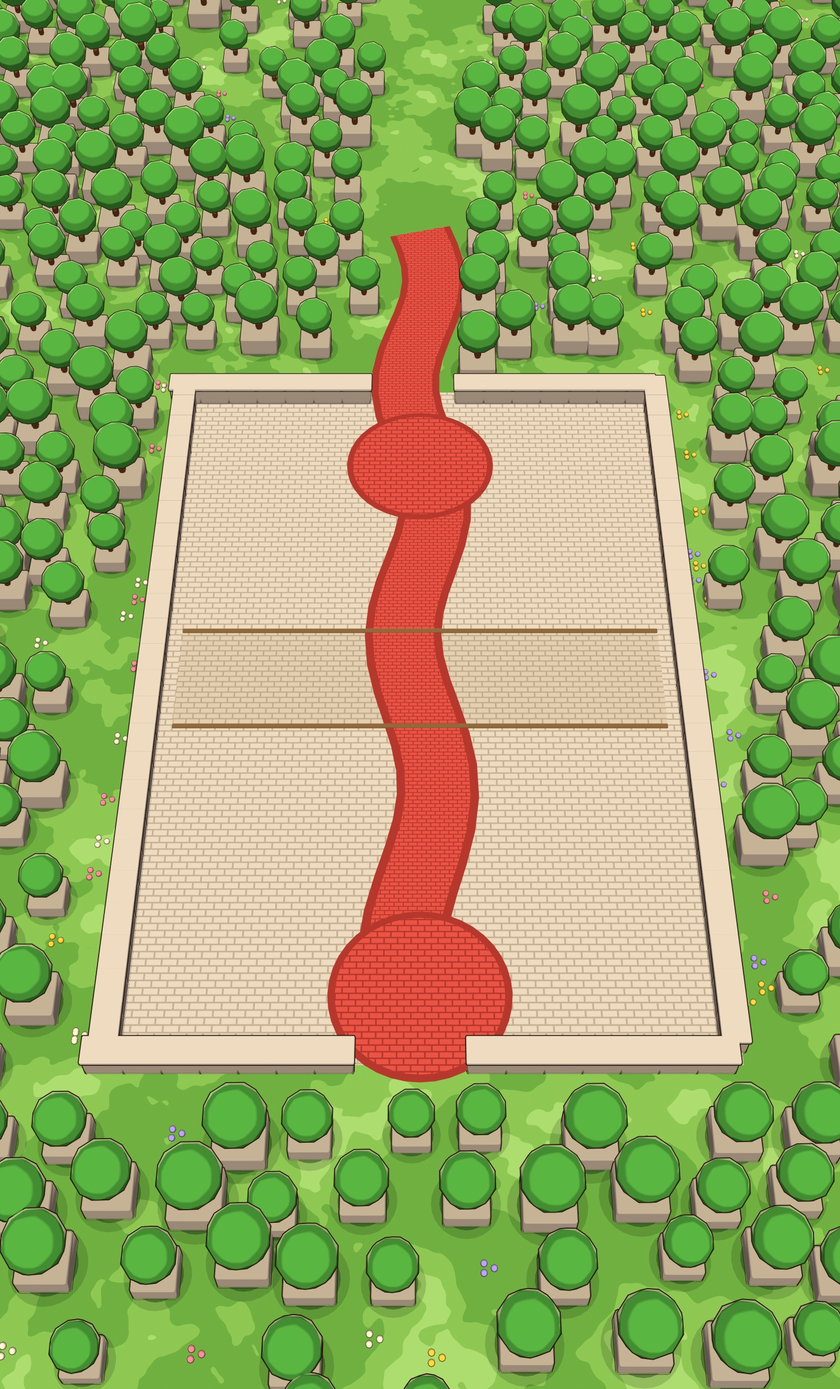
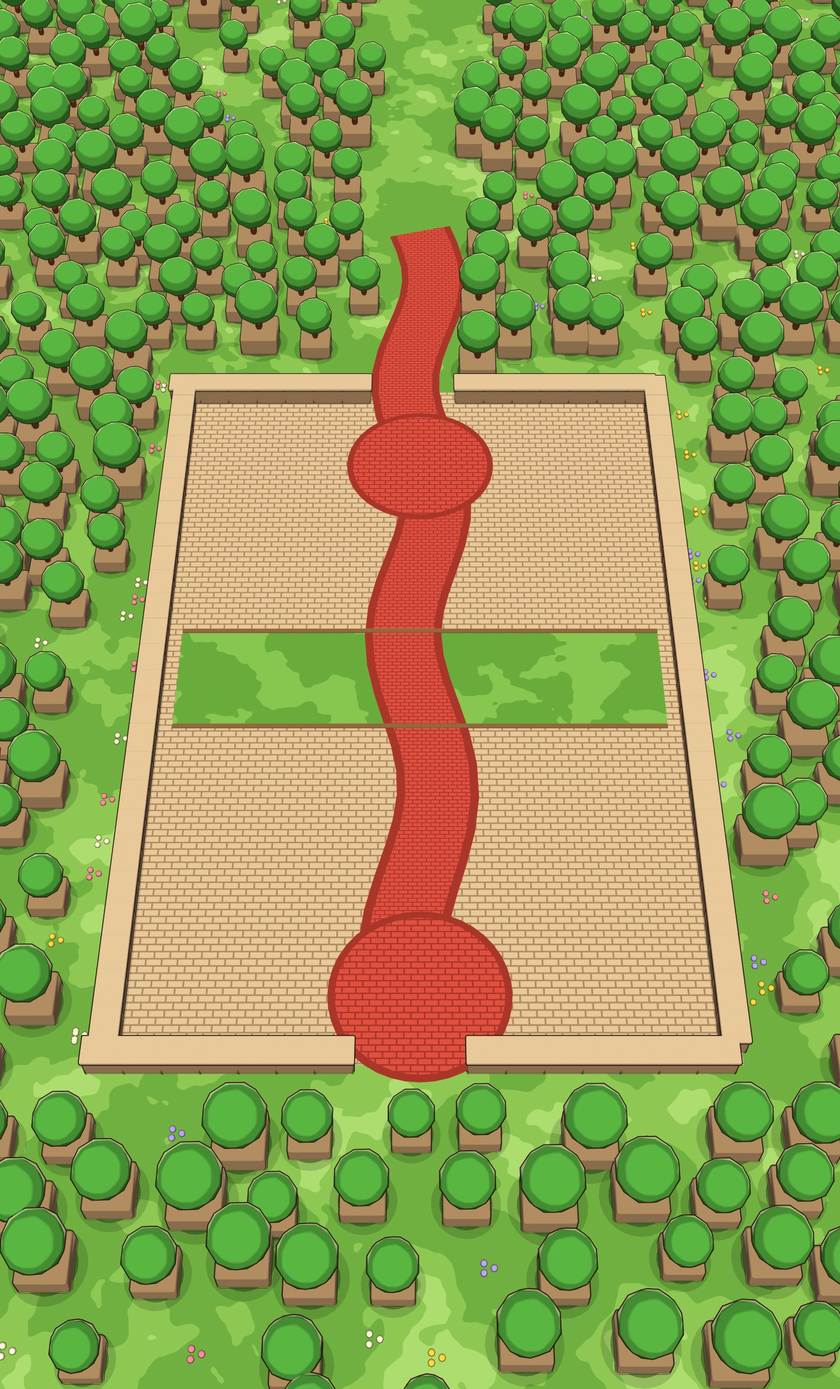
Meadow review build: warmer High Keep courtyard with a lawn strip, units drawn 1.5x like the style frame, colourful title armies
- High Keep arena: sandstone courtyard and walls, mown-lawn neutral strip (arena themes can set the strip pattern)
- SPRITE_VIS 1.25 -> 1.5 so units read at the Meadow frame's scale on a phone (collision unchanged)
- title key art: tiers 2-3 up front so the team colours read
- outputs/review/v3: act 1 and act 5 battles at phone size and a side-by-side sheet against meadow/slice.jpg

diff --git a/src/render/units.ts b/src/render/units.ts
@@ -21,8 +21,8 @@ export interface DrawOpts {
   noShadow?: boolean; // the caller draws the contact shadow (the diorama board does)
 }
 
-/** Atlas sprites draw this much larger than true scale so they read on a phone (collision is unchanged). */
-export const SPRITE_VIS = 1.25;
+/** Atlas sprites draw this much larger than true scale so they read on a phone like the Meadow style frame (collision is unchanged). */
+export const SPRITE_VIS = 1.5;
 
 /** Which animation a body plays and where in it (phase 0..1, see sprites.frame). */
 export function animFor(o: DrawOpts): { anim: Anim; phase: number } {

diff --git a/art/ui/title_key.py b/art/ui/title_key.py
@@ -1,5 +1,6 @@
 """Muster title key art: two armies clash in a meadow between their keeps. Original scene, built from the
-same unit builders and toon kit as the sprites, so the title matches the game.
+same unit builders and toon kit as the sprites, so the title matches the game. Tiers 2-3 up front: their team
+colours read on the title better than the Ascended white and gold.
 
     blender -b --factory-startup -P art/ui/title_key.py -- [--res 1206x2622] [--samples 32] [--out path.png]
     npm run art:title        (renders, then writes public/ui/title-key.webp with cwebp)
@@ -187,11 +188,11 @@ def main():
     # world coordinates: a hero duel up front, the big hitters behind it, the lines marching from the keeps
     tide = [
         ("bulwark", 3, "idle", -0.65, 7.6, -14, 1.15),
-        ("banner", 4, "idle", -1.7, 7.0, -24, 1.25),
+        ("banner", 3, "idle", -1.7, 7.0, -24, 1.25),
         ("ranger", 3, "attack", -2.15, 5.3, -26, 1.25),
         ("pikeman", 3, "attack", -0.95, 5.7, -12, 1.25),
-        ("golem", 4, "attack", -1.8, 3.7, -26, 1.1),
-        ("blades", 4, "attack", -0.5, 1.0, -30, 1.5),
+        ("golem", 3, "attack", -1.8, 3.7, -26, 1.1),
+        ("blades", 2, "attack", -0.5, 1.0, -30, 1.5),
     ]
     for kind, tier, pose, x, y, yaw, s in tide:
         with kt.at((x, y, 0), rot=(0, 0, yaw), scale=s):
@@ -206,16 +207,16 @@ def main():
     ember = [
         ("shade", 3, "idle", 0.6, 7.7, 194, 1.2),
         ("bulwark", 3, "idle", 1.6, 7.0, 200, 1.15),
-        ("storm", 4, "attack", 2.25, 5.3, 206, 1.25),
+        ("storm", 3, "attack", 2.25, 5.3, 206, 1.25),
         ("grenadier", 3, "attack", 1.0, 5.7, 200, 1.25),
-        ("ravager", 4, "attack", 1.85, 3.5, 205, 1.25),
-        ("duelist", 4, "attack", 0.5, 1.0, 210, 1.5),
+        ("ravager", 3, "attack", 1.85, 3.5, 205, 1.25),
+        ("duelist", 2, "attack", 0.5, 1.0, 210, 1.5),
     ]
     for kind, tier, pose, x, y, yaw, s in ember:
         with ke.at((x, y, 0), rot=(0, 0, yaw), scale=s):
             REG[kind]["build"](ke, P, tier, pose)
     with ke.at((2.0, 6.6, 2.7), rot=(0, 0, 200), scale=1.0):
-        REG["harrier"]["build"](ke, P, 4, "attack")
+        REG["harrier"]["build"](ke, P, 3, "attack")
 
     # ---- the world (team-free materials, so it can share the ember pass)
     k = K.Kit(outline=0.03)

diff --git a/art/arenas/render_arenas.py b/art/arenas/render_arenas.py
@@ -53,9 +53,9 @@ ACTS = {
     4: dict(name="Iron Pass", g=dict(grass="#a2bd72", grass_dk="#88a35d", grass_lt="#bcd38e", path="#ddd2b8", path_dk="#b8aa8c",
                                      strip="#cfc6b2", strip_dk="#aea38c", foliage="#4f9a5e", foliage_dk="#2f6f45", rock="#b4b0a8", rock_dk="#7d7972"),
             border="rocks", trees=("pine", "pine", "crag"), scatter="pebbles", obstacle="crag"),
-    5: dict(name="High Keep", g=dict(grass="#8cc45e", grass_dk="#70ad4b", grass_lt="#a9d878", path="#d8574b", path_dk="#a83c33",
-                                     strip="#d9cdb6", strip_dk="#b7a991", court="#e3d8c4", court_dk="#bdb09a"),
-            court=True, border="wall", trees=("topiary",), scatter="flowers", obstacle="pillar"),
+    5: dict(name="High Keep", g=dict(grass="#8cc45e", grass_dk="#70ad4b", grass_lt="#a9d878", path="#cf5446", path_dk="#9c3a30",
+                                     strip="#86c25a", strip_dk="#6aa947", court="#dcc6a0", court_dk="#a88d68"),
+            court=True, strip_pat="patches", border="wall", trees=("topiary",), scatter="flowers", obstacle="pillar"),
     6: dict(name="Frozen Reach", g=dict(grass="#eef5fb", grass_dk="#d3e2ef", grass_lt="#ffffff", path="#c5d7e8", path_dk="#9fb7cf",
                                         strip="#dbe7f2", strip_dk="#b9cde0", foliage="#3f8f6a", foliage_dk="#2b6b52", rock="#a9b4c2", rock_dk="#76828f",
                                         moss="#f4f9ff", edge="#8aa2bb"),
@@ -236,7 +236,7 @@ def main():
         if court:
             wk.box((W + 1.2, H + 1.2, 0.05), S.ground_mat(st, "court", "court_dk", "tiles", scale=1.2), loc=B(W / 2, H / 2, -0.004), outline=0)
             wk.box((W + 1.5, H + 1.5, 0.12), toon("court_dk"), loc=B(W / 2, H / 2, -0.07), bevel=0.03)
-        strip_pat = "tiles" if court else "patches"
+        strip_pat = th.get("strip_pat") or ("tiles" if court else "patches")
         wk.box((W, H - 2 * ZD, 0.02), S.ground_mat(st, "strip", "strip_dk", strip_pat, scale=1.3), loc=B(W / 2, H / 2, 0.012), outline=0)
         for yy in (ZD, H - ZD):
             wk.box((W, 0.09, 0.05), toon("edge"), loc=B(W / 2, yy, 0.03), bevel=0.015, outline=0)
